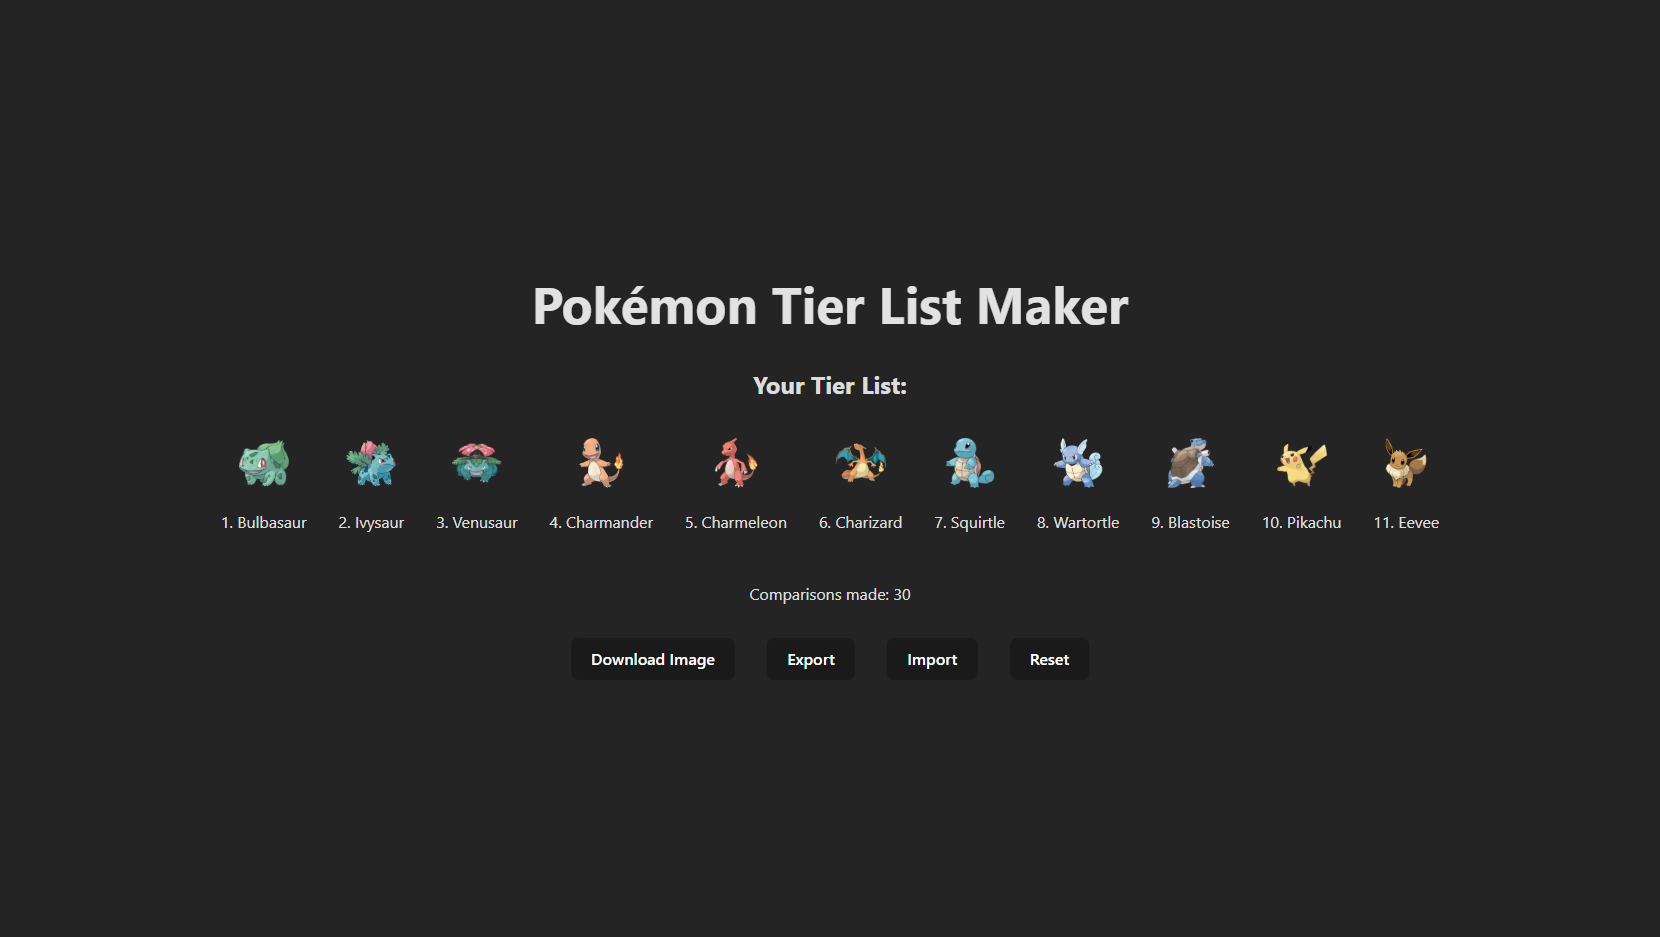
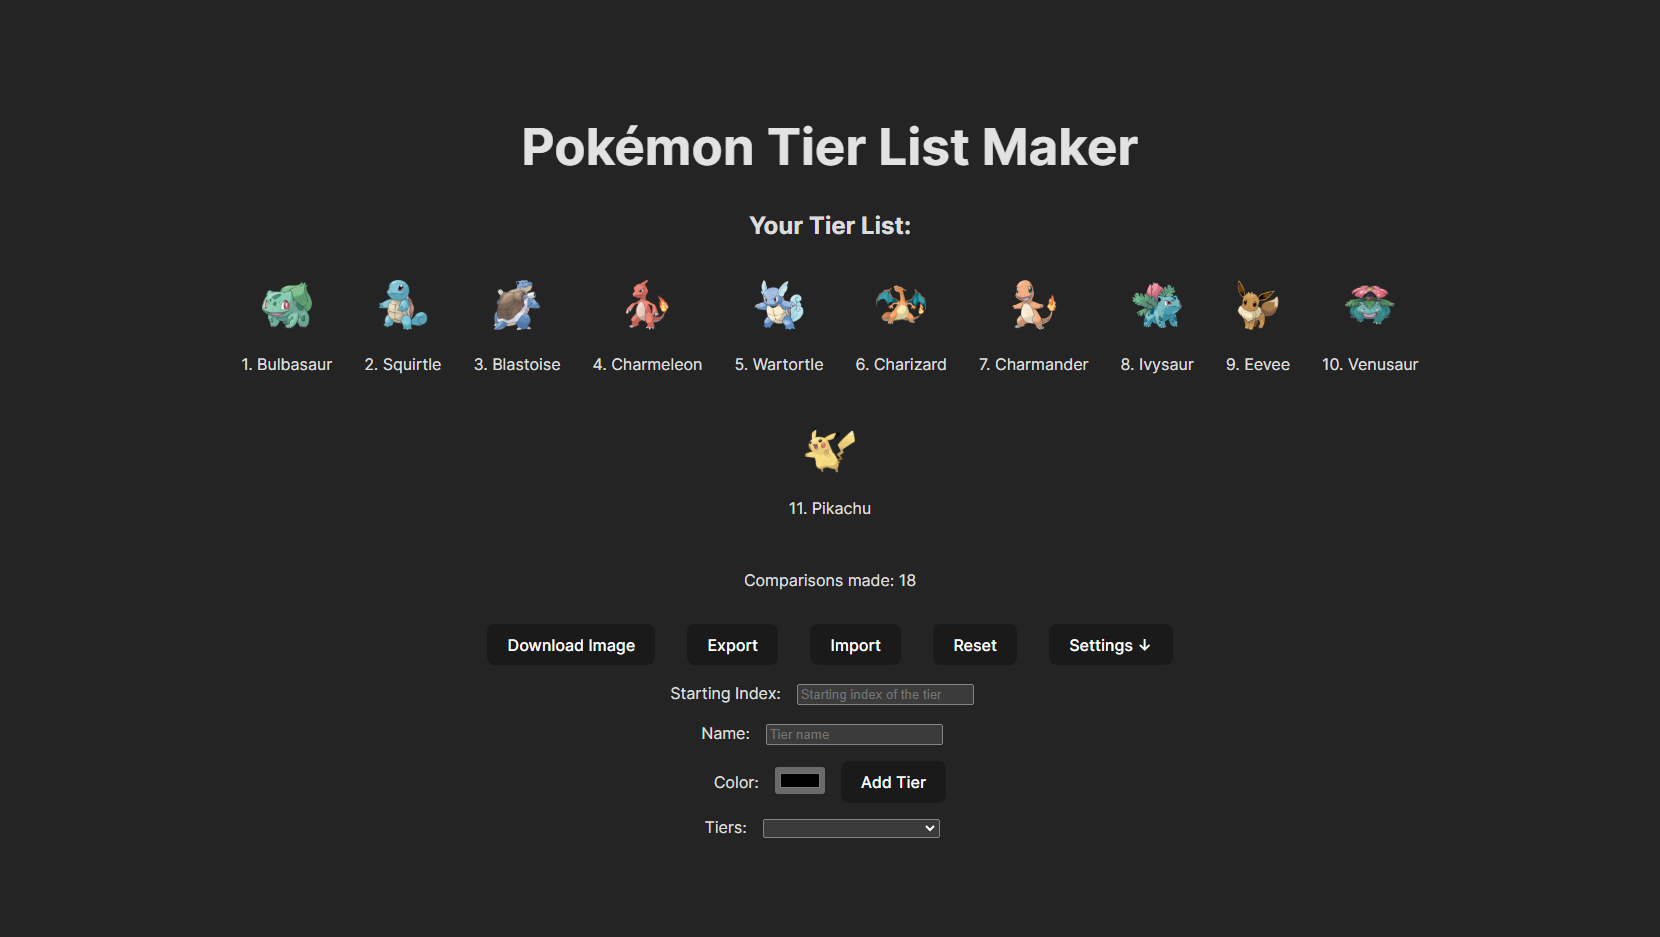
Update README

diff --git a/README.md b/README.md
@@ -34,8 +34,6 @@ They are then shuffled so that the pairs shown to the user are random.
 
 ## Planned features
 
-- Cache state in browser
-- Lets user set tiers
 - Alternative lists (Mega Evolutions, only one generation...)
 
 ## Sources
